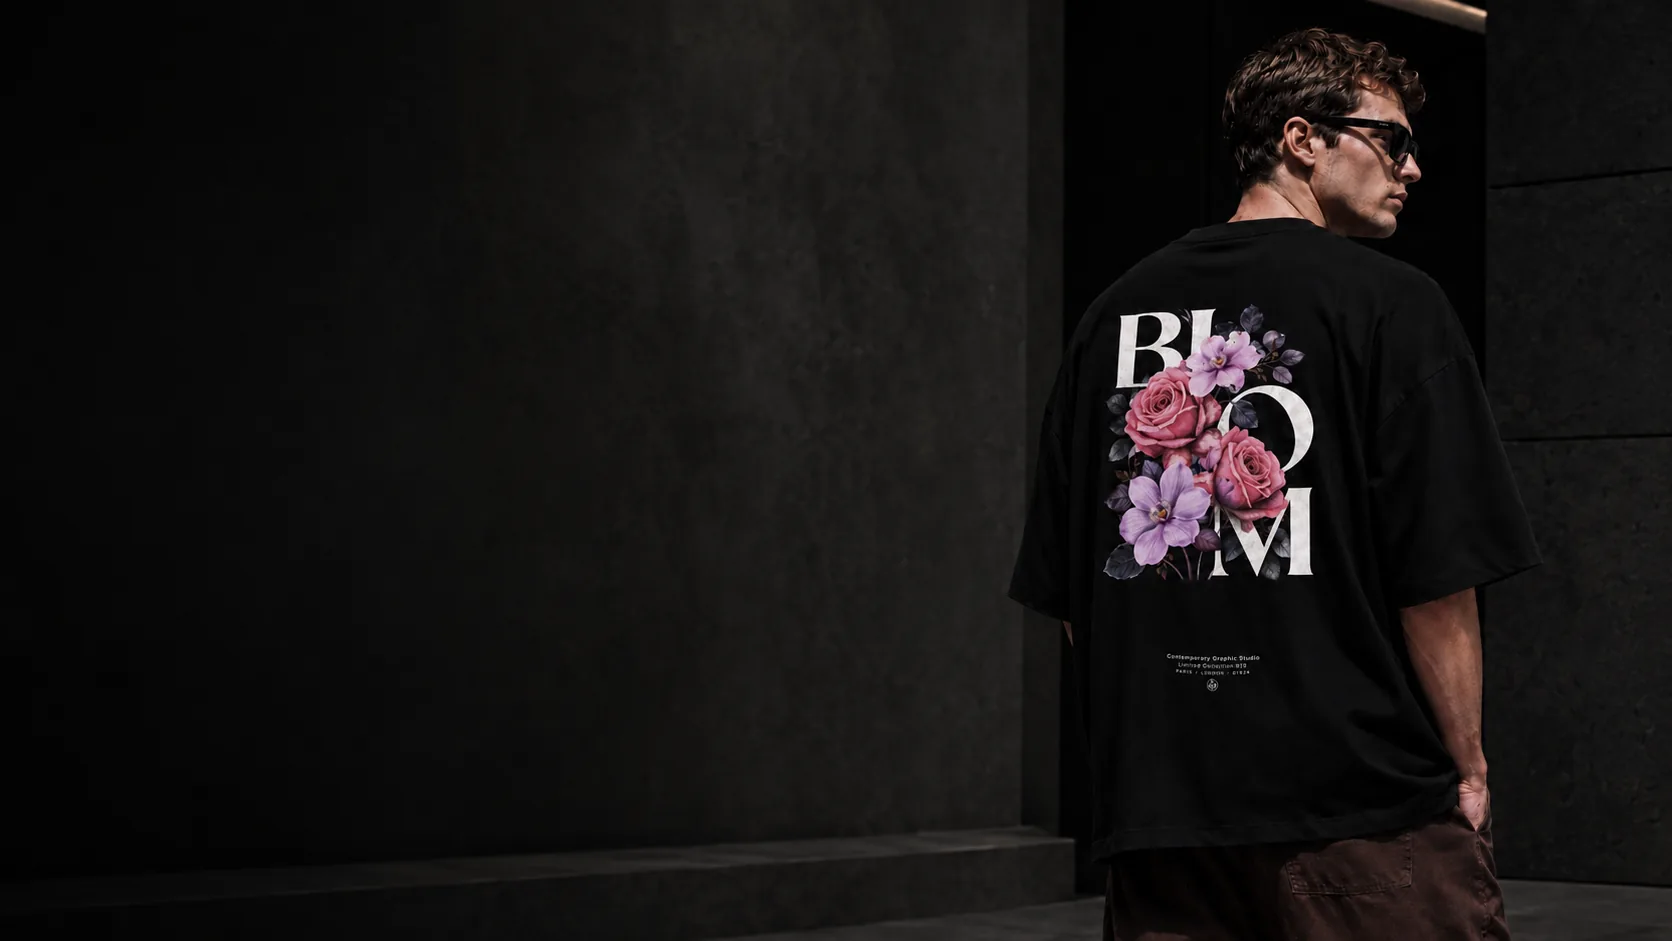
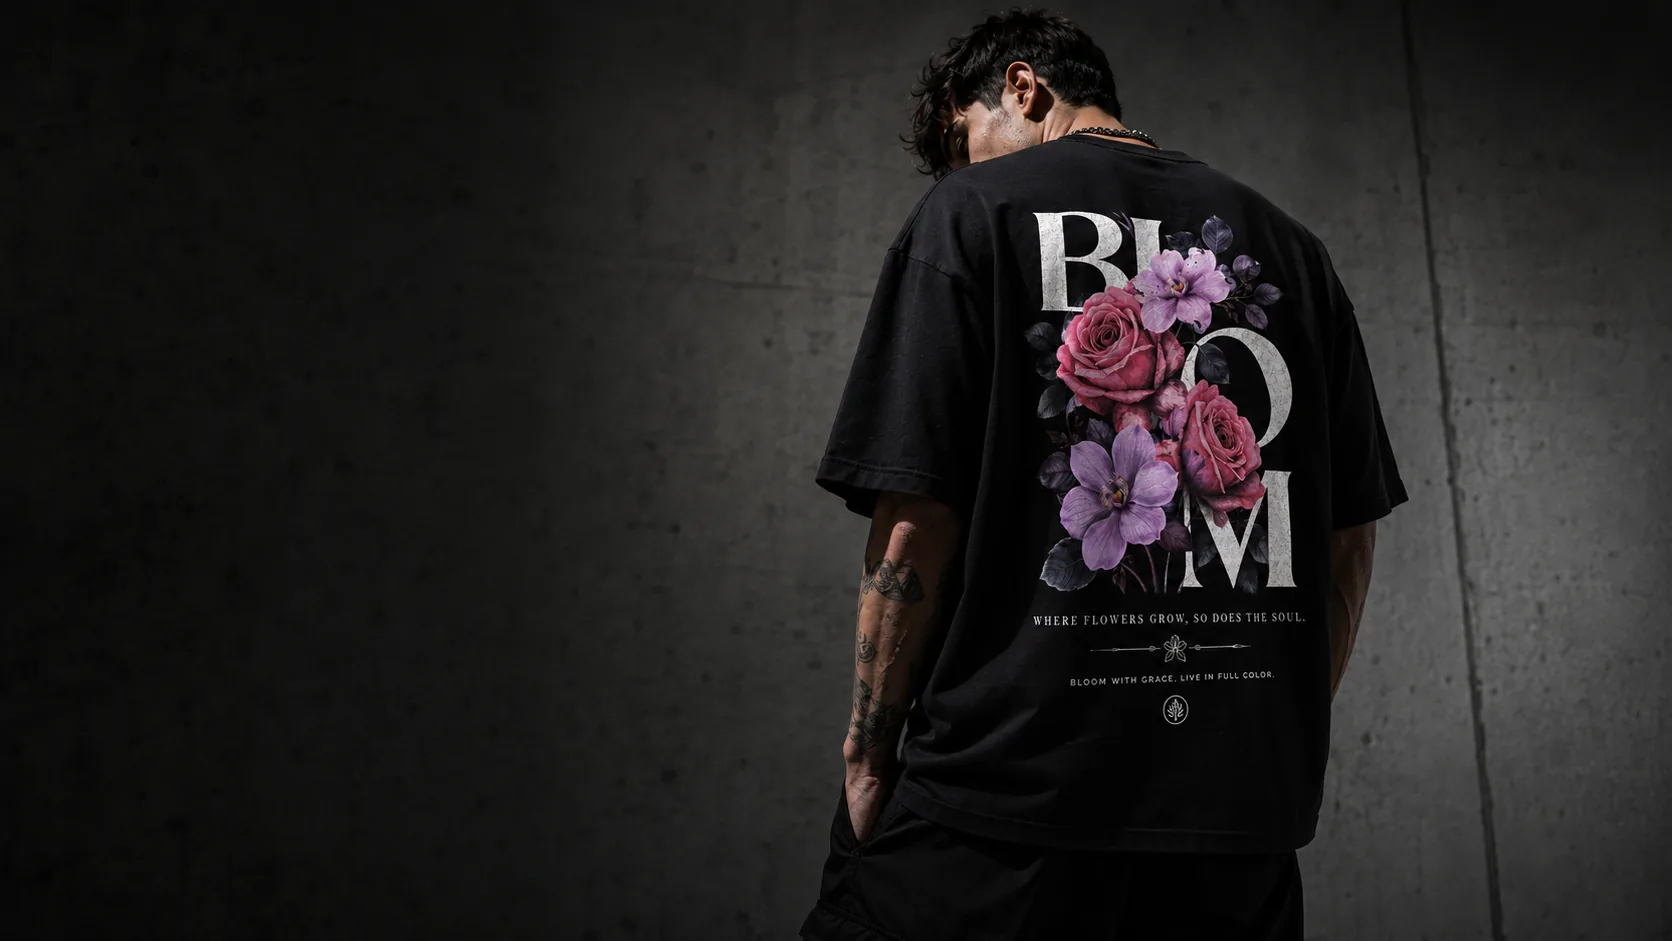
Swap hero photo for the refreshed BLOOM wide shot
Replace hero-wide.jpg/.webp with a sharper, more detailed version of
the BLOOM full-bleed shot (same composition: model right, dark wall
left), so the existing hero layout/scrim/object-position need no
changes. Bump asset cache-busting v=22 -> v=23.

Verified at 1440px and 375px: full-bleed loads (WebP), text legible
over the left scrim, CTAs clear the cookie banner on mobile.

diff --git a/index.html b/index.html
@@ -38,7 +38,7 @@
   <link rel="preconnect" href="https://fonts.gstatic.com" crossorigin />
   <link href="https://fonts.googleapis.com/css2?family=Heebo:wght@300;400;500;700;900&display=swap" rel="stylesheet" />
 
-  <link rel="stylesheet" href="styles.css?v=22" />
+  <link rel="stylesheet" href="styles.css?v=23" />
 
   <!-- Schema.org Organization -->
   <script type="application/ld+json">
@@ -340,9 +340,9 @@
   </aside>
 
   <!-- ─── JS ─── -->
-  <script src="analytics.js?v=22"></script>
-  <script src="consent.js?v=22"></script>
-  <script src="products.js?v=22"></script>
-  <script src="script.js?v=22" defer></script>
+  <script src="analytics.js?v=23"></script>
+  <script src="consent.js?v=23"></script>
+  <script src="products.js?v=23"></script>
+  <script src="script.js?v=23" defer></script>
 </body>
 </html>